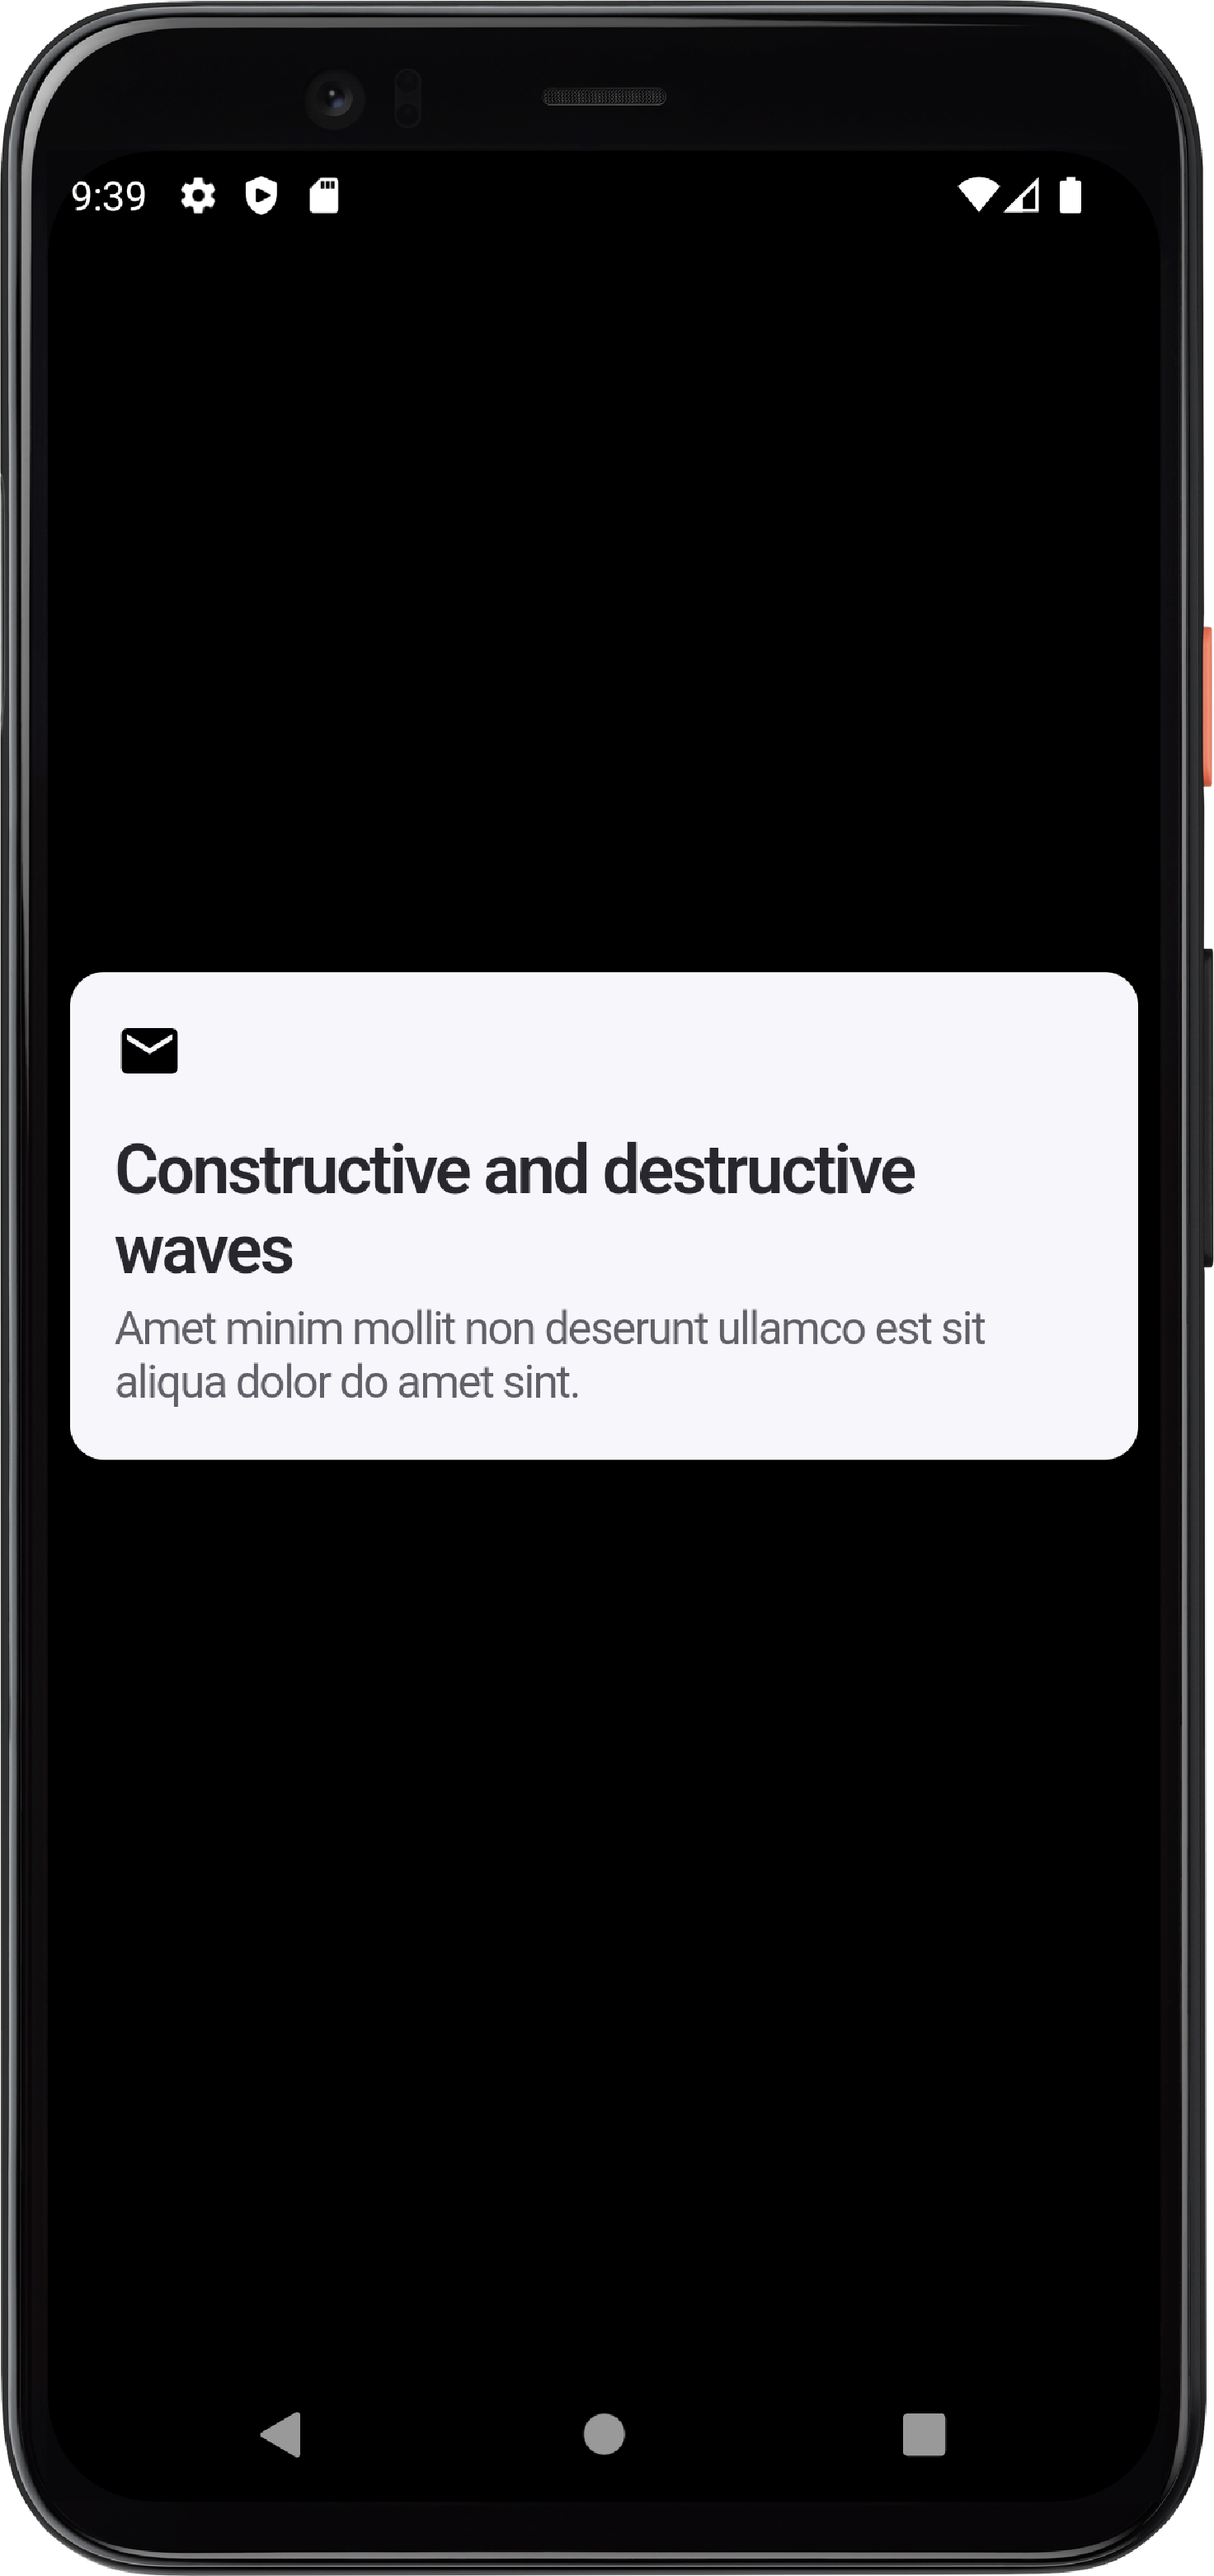
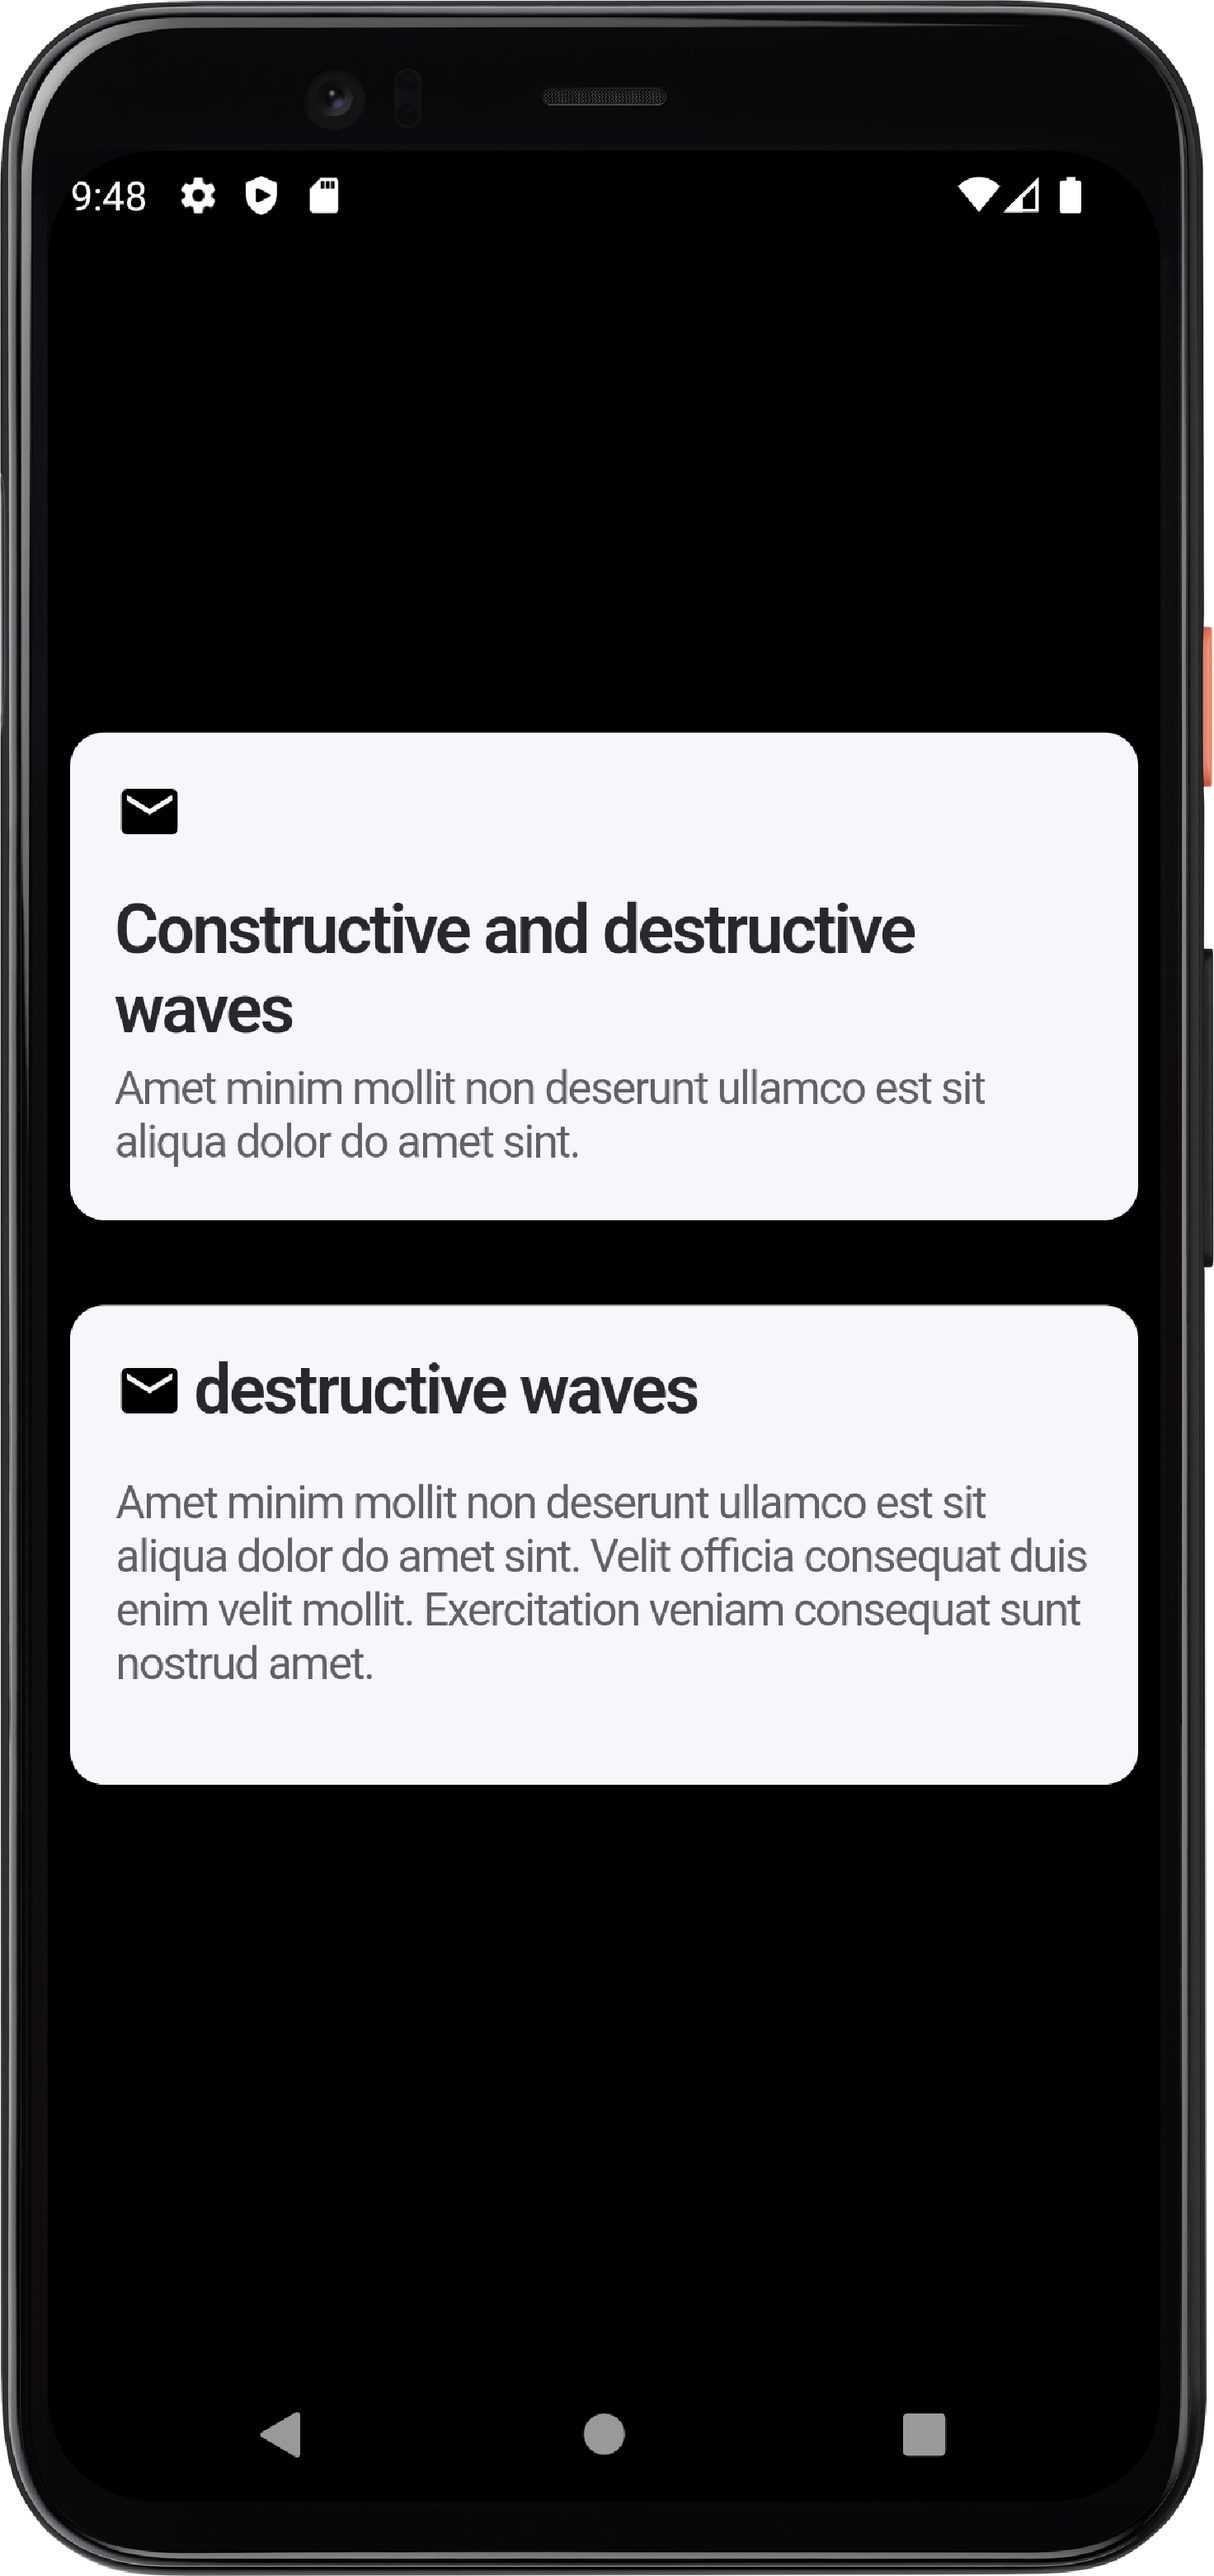
add Card 12

Changed region(s): [[0.0312, 0.2796, 0.9375, 0.7146], [0.0938, 0.0621, 0.125, 0.0932]]

diff --git a/lib/Cards/card_12.dart b/lib/Cards/card_12.dart
@@ -1,0 +1,51 @@
+import 'package:flutter/material.dart';
+import 'package:gap/gap.dart';
+class Card12 extends StatelessWidget {
+  const Card12({Key? key}) : super(key: key);
+
+  @override
+  Widget build(BuildContext context) {
+    return Container(
+      height: 169,
+      width: double.infinity,
+      padding: const EdgeInsets.all(16),
+      decoration: BoxDecoration(
+        borderRadius: BorderRadius.circular(12),
+        color:  const Color(0xFFF7F6FA),
+      ),
+      child: const Column(
+        children: [
+          Row(
+            children: [
+              Icon(Icons.email,color: Colors.black,size: 24,),
+              Gap(4),
+              Text(
+                'destructive waves',
+                style: TextStyle(
+                  color: Color(0xFF29272E),
+                  fontSize: 24,
+                  fontFamily: 'Inter',
+                  fontWeight: FontWeight.w600,
+                  height: 0,
+                  letterSpacing: -0.96,
+                ),
+              )
+            ],
+          ),
+          Gap(16),
+          Text(
+            'Amet minim mollit non deserunt ullamco est sit aliqua dolor do amet sint. Velit officia consequat duis enim velit mollit. Exercitation veniam consequat sunt nostrud amet.',
+            style: TextStyle(
+              color: Color(0xFF615F68),
+              fontSize: 16,
+              fontFamily: 'Inter',
+              fontWeight: FontWeight.w400,
+              height: 0,
+              letterSpacing: -0.64,
+            ),
+          )
+        ],
+      ),
+    );
+  }
+}

diff --git a/lib/Screens/view3.dart b/lib/Screens/view3.dart
@@ -1,5 +1,6 @@
 import 'package:flutter/material.dart';
 import 'package:flutter_ui_card_collections/Cards/card_11.dart';
+import 'package:flutter_ui_card_collections/Cards/card_12.dart';
 import 'package:gap/gap.dart';
 class View3 extends StatelessWidget {
    const View3({Key? key}) : super(key: key);
@@ -15,6 +16,7 @@ class View3 extends StatelessWidget {
            children: [
              Card11(),
              Gap(30),
+             Card12()
 
 
            ],

diff --git a/lib/main.dart b/lib/main.dart
@@ -1,8 +1,6 @@
 import 'package:flutter/material.dart';
-import 'package:flutter_ui_card_collections/Screens/screen.dart';
-import 'package:flutter_ui_card_collections/Screens/view2.dart';
 import 'package:flutter_ui_card_collections/Screens/view3.dart';
-import 'package:flutter_ui_card_collections/Views/view1.dart';
+
 
 void main() {
  runApp(const App());
